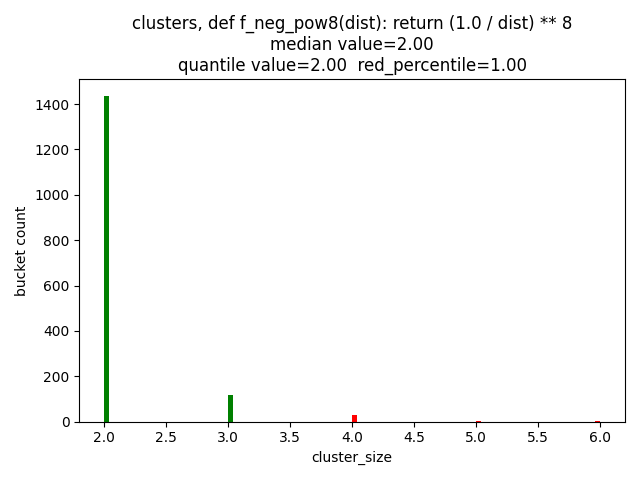
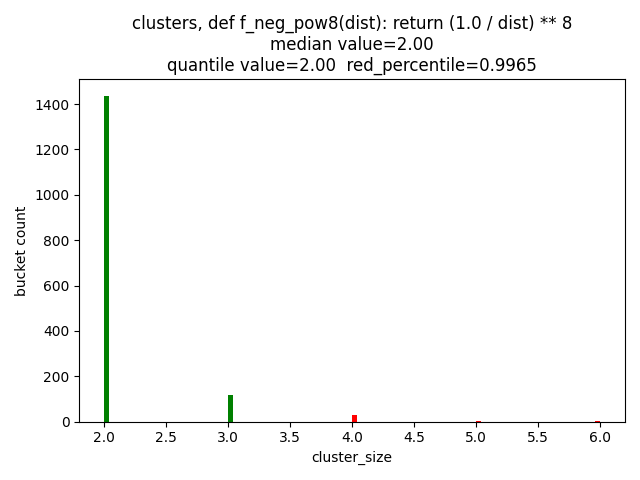
seek classification

Changed region(s): [[0.25, 0.0938, 0.8438, 0.1562]]

diff --git a/DonorAnalyzer.py b/DonorAnalyzer.py
@@ -5,7 +5,8 @@ import cooler
 import numpy as np
 import os
 import sys
-from DenseUtils import heatmap_with_breakpoints_and_cluster, create_path_if_not_exist, plot_distribution, perf_measure
+from DenseUtils import heatmap_with_breakpoints_and_cluster, create_path_if_not_exist, plot_distribution, perf_measure, \
+    plot_seek_distibution
 from DonorRepository import DonorRepository
 from DonorService import collect_chr_bins_map_with_resolution, bps_to_bins_with_resolution
 from GoldbergWeighted import WFind_Densest_Subgraph, WFind_Density
@@ -176,10 +177,6 @@ def hist_patients(f_id, ratio):
                     dens = rep.get_density(info_id)
                     cluster = len(rep.get_cluster(info_id))
                     periphery = len(rep.get_periphery(info_id))
-                    # print(cluster)
-                    # if cluster == 52:
-                    #    print(info_id)
-                    # denss.append(dens)
                     denss_info.append((dens, info_id))
                     clusters.append(cluster)
                     peripheries.append(periphery)
@@ -187,17 +184,23 @@ def hist_patients(f_id, ratio):
 
         dens_path = f'distribution/densities/{f_id}.png'
         denss = list(map(lambda x: x[0], denss_info))
-        top_ratio_infos = sorted(denss_info, key=lambda p: p[0])
+        top_ratio_infos_sorted_by_dens = sorted(denss_info, key=lambda p: p[0])
         cnt = len(denss)
+
         for i in range(int(cnt * ratio), cnt):
-            infoids.append(top_ratio_infos[i][1])
-        plot_distribution(denss, dens_path, code, 'density', 'density', ratio)
+            cur_id = top_ratio_infos_sorted_by_dens[i][1]
+            infoids.append(cur_id)
+
+        buckets_cnt = 100
+        plot_distribution(denss, dens_path, code, 'density', 'density', ratio, buckets_cnt)
 
         cluster_path = f'distribution/clusters/{f_id}.png'
-        plot_distribution(clusters, cluster_path, code, 'clusters', 'cluster_size', ratio, 'green')
+        plot_distribution(clusters, cluster_path, code, 'clusters', 'cluster_size', ratio, buckets_cnt, 'green')
 
         periphery_path = f'distribution/peripheries/{f_id}.png'
-        plot_distribution(peripheries, periphery_path, code, 'peripheries', 'periphery_size', ratio, 'orange')
+        plot_distribution(peripheries, periphery_path, code, 'peripheries', 'periphery_size', ratio, buckets_cnt, 'orange')
+
+        plot_seek_distibution(top_ratio_infos_sorted_by_dens, buckets_cnt, rep)
 
     t2 = time.time()
     print(f'plots took {t2 - t1} sec')
@@ -235,7 +238,7 @@ def compare_chromos(chromos):
             donor_chr_svs = list(map(lambda p: bps_to_bins_with_resolution(p[0], p[1], resolution), donor_chr_svs_bp))
             print(donor_chr_svs)
             print('my   ', donor, f'chr{chr}', low, up)
-            seek_donor, seek_chr, seek_low, seek_up = rep.get_chromo(donor, chr)
+            seek_donor, seek_chr, seek_low, seek_up, label = rep.get_chromo(donor, chr)
             if seek_low and seek_up:
                 seek_low, seek_up = bps_to_bins_with_resolution(seek_low, seek_up, resolution)
             print('seek ', donor, f'chr{seek_chr}', seek_low, seek_up)
@@ -261,10 +264,10 @@ def measure_chromos(chromo_clusters):
                 donor_chr_bps.add(p[1])
             donor_chr_bps = list(donor_chr_bps)
 
-            seek_donor, seek_chr, seek_low, seek_up = rep.get_chromo(donor, chr)
+            seek_donor, seek_chr, seek_low, seek_up, label = rep.get_chromo(donor, chr)
 
-            if seek_low == -2:
-                print('No Chromo')
+            if seek_low == -2 or label != 'High confidence':
+                print('No high confidence chromo')
                 continue
 
             if seek_low == -1:
@@ -323,8 +326,8 @@ def seek_test():
             ok = True
             for i in range(1, 22):
                 cnt += 1
-                seek_donor, seek_chr, seek_low, seek_up = rep.get_chromo(donor, i)
-
+                seek_donor, seek_chr, seek_low, seek_up, label = rep.get_chromo(donor, i)
+                print(label)
                 if seek_low == -2:
                     print('No Chromo')
                     no_chromo_cnt += 1
@@ -334,9 +337,9 @@ def seek_test():
                     print('No Data')
                     no_data_cnt += 1
                     continue
-
-                chromo_cnt += 1
-                ok = False
+                if label == 'High confidence':
+                    chromo_cnt += 1
+                    ok = False
             if ok:
                 ok_cnt += 1
 
@@ -346,7 +349,7 @@ def seek_test():
 
 def measure_test():
     i = 3
-    infoids = hist_patients(i, ratio=0.99)
+    infoids = hist_patients(i, ratio=0.8)
     #chromos = find_chromos(infoids)
     chromo_clusters = find_cromo_clusters(infoids)
     measure_chromos(chromo_clusters)
@@ -357,8 +360,8 @@ if __name__ == '__main__':
     # main()
 
 
-    all_hists(0.9965) #0.9965: -1,  0.975: -2
+    # all_hists(0.9965) #0.9965: -1,  0.975: -2
 
     # seek_test()
 
-    # measure_test()
+    measure_test()

diff --git a/DenseUtils.py b/DenseUtils.py
@@ -10,6 +10,7 @@ import inspect
 
 from matplotlib import rcParams
 
+from DonorRepository import DonorRepository
 from GoldbergWeighted import WFind_Densest_Subgraph, WFind_Density
 from HiCUtils import zeros_to_nan, normalize_intra
 
@@ -40,9 +41,65 @@ def find_first_predicate_index(arr, predicate):
     return -1
 
 
-def plot_distribution(arr, store_path, function_code, label, xlabel, ratio, color='null'):
+def plot_seek_distibution(top_ratio_infos_sorted_by_dens, buckets_cnt, rep: DonorRepository):
+    dens_sorted_info_ids = list(map(lambda p: p[1], top_ratio_infos_sorted_by_dens))
+    denss = list(map(lambda p: p[0], top_ratio_infos_sorted_by_dens))
+    cnts_in_bucket, bins = np.histogram(np.array(denss), bins=buckets_cnt)
+    seek_high = []
+    seek_almost_high = []
+    seek_low = []
+    seek_almost_low = []
+    seek_no = []
+    seek_no_data = []
+    info_id_iter = 0
+    for i in range(buckets_cnt):
+        seek_high.append(0)
+        seek_almost_high.append(0)
+        seek_low.append(0)
+        seek_almost_low.append(0)
+        seek_no.append(0)
+        seek_no_data.append(0)
+        for j in range(int(cnts_in_bucket[i])):
+            info_id = dens_sorted_info_ids[info_id_iter]
+            info_id_iter += 1
+            donor, chrN, fid = rep.get_by_infoid(info_id)
+
+            _, _, _, _, label = rep.get_chromo(donor, chrN)
+            if label == -1:
+                print('No Data')
+                continue
+
+            if label == 'High confidence':
+                seek_high[i] += 1
+                print('high')
+            elif label == 'Linked to high confidence':
+                seek_almost_high[i] += 1
+                print('almost high')
+            elif label == 'Low confidence':
+                seek_low[i] += 1
+                print('low')
+            elif label == 'Linked to low confidence':
+                seek_almost_low[i] += 1
+            elif label == 'No':
+                seek_no[i] += 1
+                print('No chromo')
+
+
+    ids = np.arange(buckets_cnt)
+    data = np.array([seek_no, seek_low, seek_almost_low, seek_almost_high, seek_high])
+    bottom = np.cumsum(data, axis=0)
+    colors = ('lime', 'green', 'yellow', 'red', 'black')
+    labels = ('healthy', 'low', 'almost low', 'almost high', 'high')
+    plt.bar(ids, data[0], align='center', label=labels[0], color=colors[0])
+    for j in range(1, data.shape[0]):
+        plt.bar(ids, data[j], color=colors[j], label=labels[j], align='center', bottom=bottom[j - 1])
+    plt.legend()
+    plt.show()
+
+
+
+def plot_distribution(arr, store_path, function_code, label, xlabel, ratio, buckets_cnt, color='null'):
     rcParams.update({'figure.autolayout': True})
-    buckets_cnt = 100
     if color != 'null':
         cnts_in_bucket, bins, patches = plt.hist(arr, bins=buckets_cnt, color=color)
     else:
@@ -58,7 +115,7 @@ def plot_distribution(arr, store_path, function_code, label, xlabel, ratio, colo
     plt.title(f'{label}, {function_code}' +
               'median value=%0.2f\n' % dens_med +
               'quantile value=%0.2f  ' % dens_quantile +
-              'red_percentile=%0.2f' % ratio)
+              'red_percentile=%0.4f' % ratio)
     create_path_if_not_exist(store_path)
     plt.xlabel(xlabel)
     plt.ylabel('bucket count')

diff --git a/DonorRepository.py b/DonorRepository.py
@@ -128,18 +128,19 @@ class DonorRepository:
         self.cur.execute(
             ' SELECT ' +
             '   donor_unique_id, ' +
-            '  "Chr" , ' +
-            '  "Start", ' +
-            '  "End" ' +
+            '   "Chr", ' +
+            '   "Start", ' +
+            '   "End", ' +
+            '   chromo_label ' +
             '  FROM chromo ' +
             f'WHERE donor_unique_id SIMILAR TO \'%{donor}\' ' +
             f'  AND "Chr" = \'{chr}\' '
         )
         row = self.cur.fetchone()
         if not row:
-            return -1, -1, -1, -1
+            return -1, -1, -1, -1, -1
         if not row[3]:
-            return -2, -2, -2, -2
+            return -2, -2, -2, -2, -2
         return row
 
     def insert_cluster(self, info_id, cluster: tuple):
